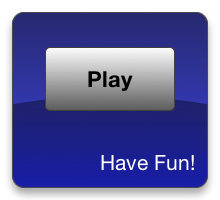
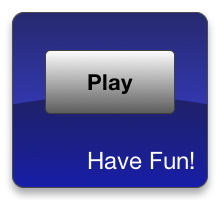
Tweaks on arrows version

diff --git a/arrows/Dashboard Widget/ArrowKeyControl.wdgtproj/project.wdgt/Parts/setup.js b/arrows/Dashboard Widget/ArrowKeyControl.wdgtproj/project.wdgt/Parts/setup.js
@@ -9,7 +9,7 @@ var dashcodePartSpecs = {
     "done": { "creationFunction": "CreateGlassButton", "onclick": "showFront", "text": "Done" },
     "glassbutton": { "creationFunction": "CreateGlassButton", "onclick": "gotoSite", "text": "Website" },
     "info": { "backgroundStyle": "white", "creationFunction": "CreateInfoButton", "foregroundStyle": "white", "frontID": "front", "onclick": "showBack" },
-    "out": { "creationFunction": "CreateText", "text": "Z" },
+    "out": { "creationFunction": "CreateText" },
     "passDesc": { "creationFunction": "CreateText", "text": "Password:" },
     "play": { "creationFunction": "CreateButton", "leftImageWidth": 5, "onclick": "playGame", "rightImageWidth": 5, "text": "Play" },
     "score": { "creationFunction": "CreateText", "text": "Have Fun!" },

diff --git a/arrows/Dashboard Widget/ArrowKeyControl.wdgtproj/project.wdgt/KeyControl.css b/arrows/Dashboard Widget/ArrowKeyControl.wdgtproj/project.wdgt/KeyControl.css
@@ -119,8 +119,8 @@ body {
     font-size: 22px;
     width: 130px;
     left: 45px;
-    height: 77px;
-    top: 44px;
+    height: 64px;
+    top: 50px;
 }
 
 #out {
